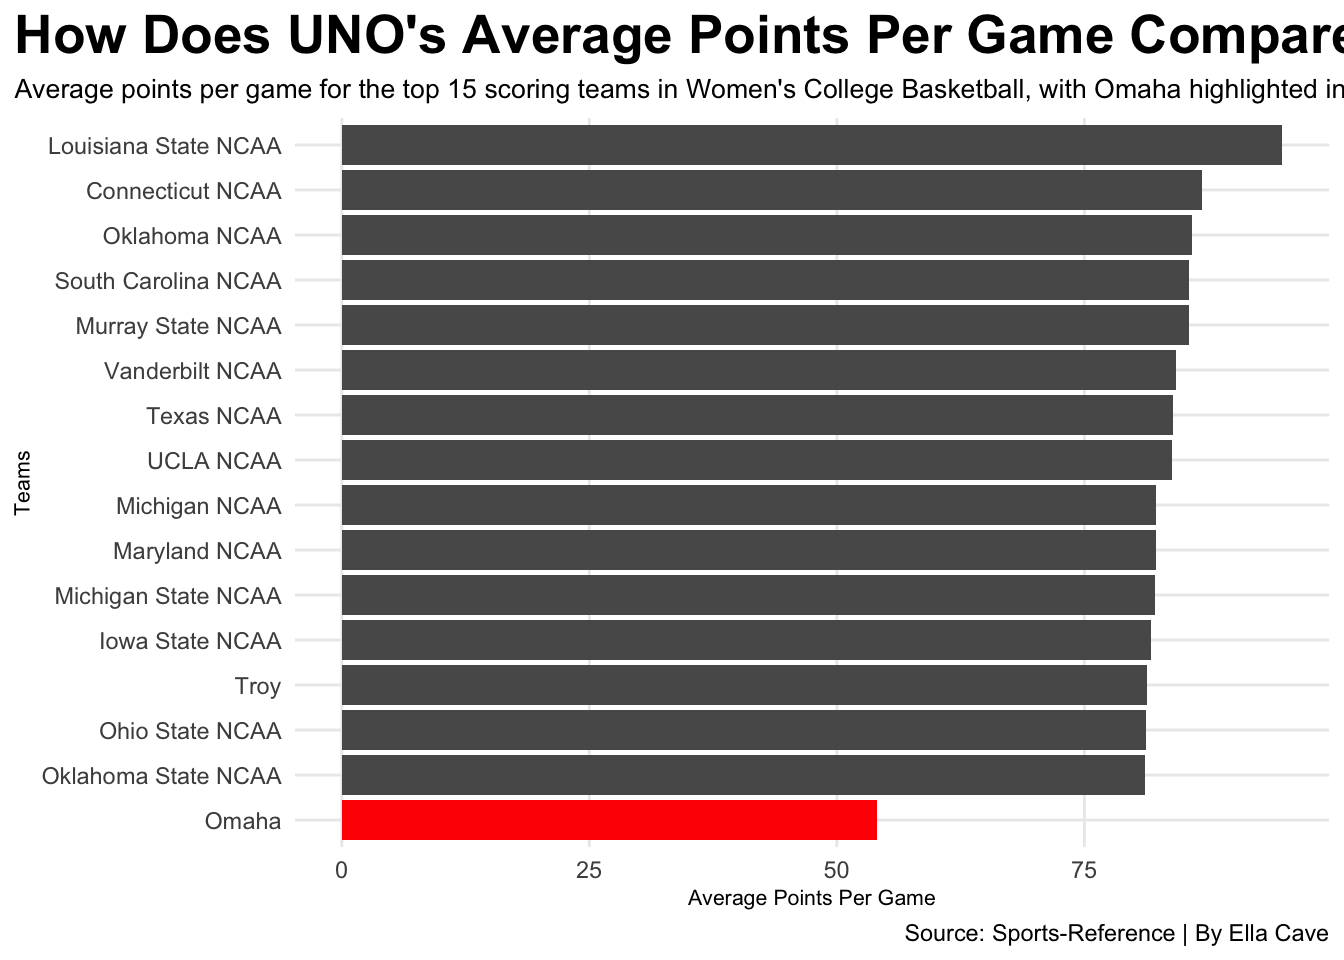
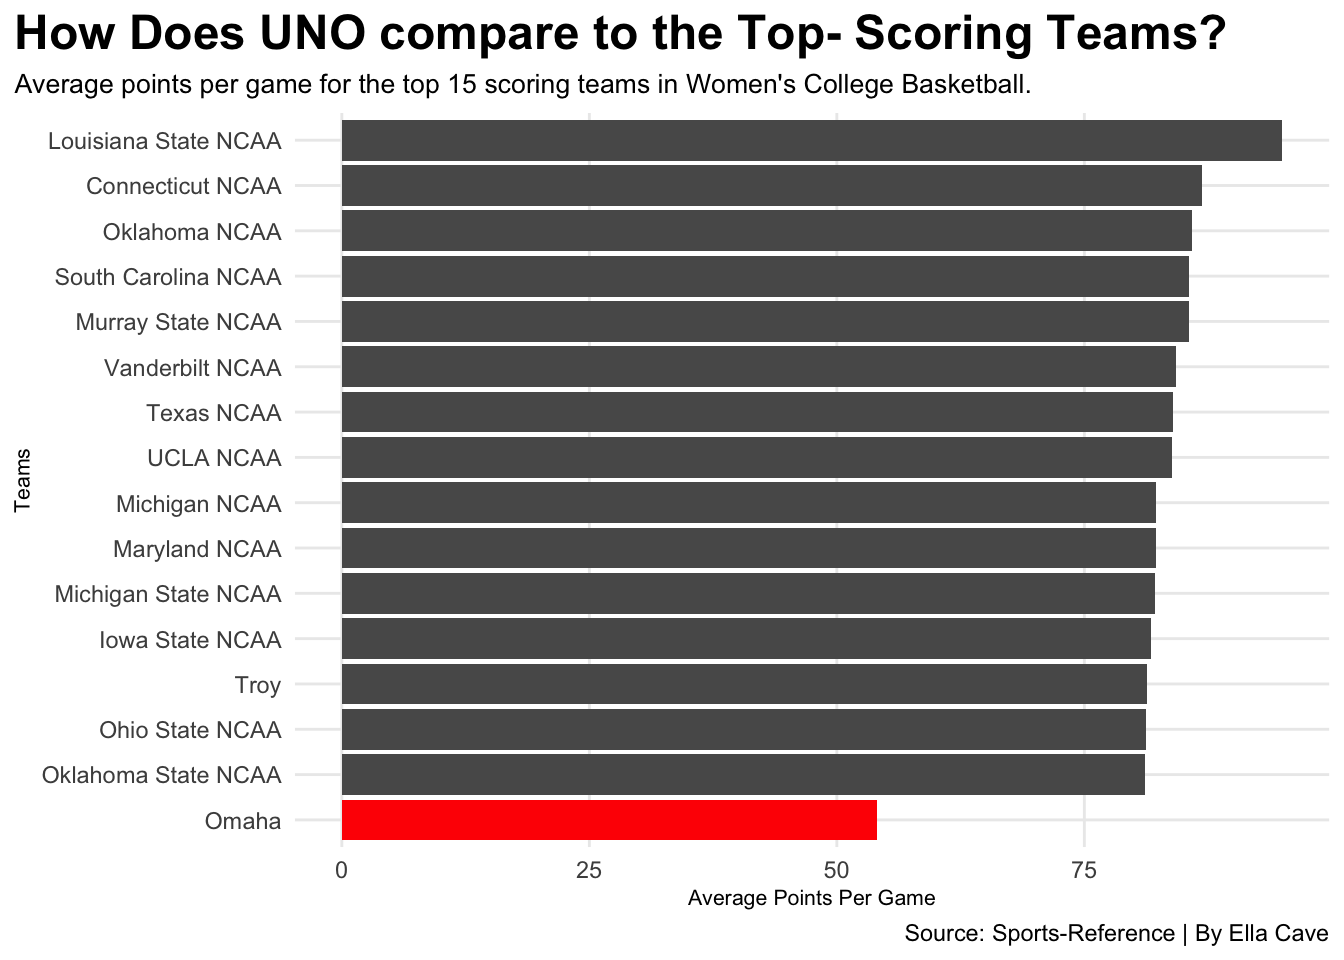
final edits

diff --git a/posts/omaha-womens-basketball/index.html b/posts/omaha-womens-basketball/index.html
@@ -402,12 +402,12 @@ pre > code.sourceCode > span > a:first-child::before { text-decoration: underlin
 <span id="cb1-27"><a href="#cb1-27" aria-hidden="true" tabindex="-1"></a>  <span class="fu">labs</span>(</span>
 <span id="cb1-28"><a href="#cb1-28" aria-hidden="true" tabindex="-1"></a>    <span class="at">x=</span><span class="st">"Teams"</span>, </span>
 <span id="cb1-29"><a href="#cb1-29" aria-hidden="true" tabindex="-1"></a>    <span class="at">y=</span><span class="st">"Average Points Per Game"</span>, </span>
-<span id="cb1-30"><a href="#cb1-30" aria-hidden="true" tabindex="-1"></a>    <span class="at">title=</span><span class="st">"How Does UNO's Average Points Per Game Compare to the Highest-Scoring Teams?"</span>, </span>
-<span id="cb1-31"><a href="#cb1-31" aria-hidden="true" tabindex="-1"></a>    <span class="at">subtitle=</span><span class="st">"Average points per game for the top 15 scoring teams in Women's College Basketball, with Omaha highlighted in red."</span>, </span>
+<span id="cb1-30"><a href="#cb1-30" aria-hidden="true" tabindex="-1"></a>    <span class="at">title=</span><span class="st">"How Does UNO compare to the Top- Scoring Teams?"</span>, </span>
+<span id="cb1-31"><a href="#cb1-31" aria-hidden="true" tabindex="-1"></a>    <span class="at">subtitle=</span><span class="st">"Average points per game for the top 15 scoring teams in Women's College Basketball."</span>, </span>
 <span id="cb1-32"><a href="#cb1-32" aria-hidden="true" tabindex="-1"></a>    <span class="at">caption=</span><span class="st">"Source: Sports-Reference | By Ella Cave"</span></span>
 <span id="cb1-33"><a href="#cb1-33" aria-hidden="true" tabindex="-1"></a>    ) <span class="sc">+</span></span>
 <span id="cb1-34"><a href="#cb1-34" aria-hidden="true" tabindex="-1"></a> <span class="fu">theme</span>(</span>
-<span id="cb1-35"><a href="#cb1-35" aria-hidden="true" tabindex="-1"></a>     <span class="at">plot.title =</span> <span class="fu">element_text</span>(<span class="at">size =</span> <span class="dv">20</span>, <span class="at">face =</span> <span class="st">"bold"</span>), </span>
+<span id="cb1-35"><a href="#cb1-35" aria-hidden="true" tabindex="-1"></a>     <span class="at">plot.title =</span> <span class="fu">element_text</span>(<span class="at">size =</span> <span class="dv">18</span>, <span class="at">face =</span> <span class="st">"bold"</span>), </span>
 <span id="cb1-36"><a href="#cb1-36" aria-hidden="true" tabindex="-1"></a>     <span class="at">axis.title =</span> <span class="fu">element_text</span>(<span class="at">size =</span> <span class="dv">8</span>),</span>
 <span id="cb1-37"><a href="#cb1-37" aria-hidden="true" tabindex="-1"></a>     <span class="at">plot.subtitle =</span> <span class="fu">element_text</span>(<span class="at">size =</span> <span class="dv">10</span>),</span>
 <span id="cb1-38"><a href="#cb1-38" aria-hidden="true" tabindex="-1"></a>     <span class="at">panel.grid.minor =</span> <span class="fu">element_blank</span>(), </span>
@@ -448,12 +448,12 @@ pre > code.sourceCode > span > a:first-child::before { text-decoration: underlin
 <span id="cb2-17"><a href="#cb2-17" aria-hidden="true" tabindex="-1"></a>    <span class="at">x=</span><span class="st">"Average Scored Points"</span>, </span>
 <span id="cb2-18"><a href="#cb2-18" aria-hidden="true" tabindex="-1"></a>    <span class="at">y=</span><span class="st">"Average Allowed Points"</span>, </span>
 <span id="cb2-19"><a href="#cb2-19" aria-hidden="true" tabindex="-1"></a>    <span class="at">title=</span><span class="st">"Does a Strong Offense Mean a Strong Defense?"</span>, </span>
-<span id="cb2-20"><a href="#cb2-20" aria-hidden="true" tabindex="-1"></a>    <span class="at">subtitle=</span><span class="st">"Comparing average points scored and points allowed per game among the top 15 scoring teams in women's college basketball, with UNO highlighted in red."</span>, </span>
+<span id="cb2-20"><a href="#cb2-20" aria-hidden="true" tabindex="-1"></a>    <span class="at">subtitle=</span><span class="st">"Comparing average points scored and points allowed with teams Women's College Basketball."</span>, </span>
 <span id="cb2-21"><a href="#cb2-21" aria-hidden="true" tabindex="-1"></a>    <span class="at">caption=</span><span class="st">"Source: Sports-Reference | By Ella Cave"</span></span>
 <span id="cb2-22"><a href="#cb2-22" aria-hidden="true" tabindex="-1"></a>    ) <span class="sc">+</span></span>
 <span id="cb2-23"><a href="#cb2-23" aria-hidden="true" tabindex="-1"></a>  <span class="fu">theme_minimal</span>() <span class="sc">+</span></span>
 <span id="cb2-24"><a href="#cb2-24" aria-hidden="true" tabindex="-1"></a>   <span class="fu">theme</span>(</span>
-<span id="cb2-25"><a href="#cb2-25" aria-hidden="true" tabindex="-1"></a>     <span class="at">plot.title =</span> <span class="fu">element_text</span>(<span class="at">size =</span> <span class="dv">20</span>, <span class="at">face =</span> <span class="st">"bold"</span>), </span>
+<span id="cb2-25"><a href="#cb2-25" aria-hidden="true" tabindex="-1"></a>     <span class="at">plot.title =</span> <span class="fu">element_text</span>(<span class="at">size =</span> <span class="dv">18</span>, <span class="at">face =</span> <span class="st">"bold"</span>), </span>
 <span id="cb2-26"><a href="#cb2-26" aria-hidden="true" tabindex="-1"></a>     <span class="at">axis.title =</span> <span class="fu">element_text</span>(<span class="at">size =</span> <span class="dv">8</span>),</span>
 <span id="cb2-27"><a href="#cb2-27" aria-hidden="true" tabindex="-1"></a>     <span class="at">plot.subtitle =</span> <span class="fu">element_text</span>(<span class="at">size =</span> <span class="dv">10</span>),</span>
 <span id="cb2-28"><a href="#cb2-28" aria-hidden="true" tabindex="-1"></a>     <span class="at">panel.grid.minor =</span> <span class="fu">element_blank</span>(), </span>
@@ -509,12 +509,12 @@ pre > code.sourceCode > span > a:first-child::before { text-decoration: underlin
 <span id="cb3-32"><a href="#cb3-32" aria-hidden="true" tabindex="-1"></a>    <span class="at">x=</span><span class="st">"Average Turnovers Per Game"</span>,</span>
 <span id="cb3-33"><a href="#cb3-33" aria-hidden="true" tabindex="-1"></a>    <span class="at">y=</span><span class="st">"Average Points Scored Per Game"</span>,</span>
 <span id="cb3-34"><a href="#cb3-34" aria-hidden="true" tabindex="-1"></a>    <span class="at">title=</span><span class="st">"Does Taking Care of the Basketball Help Teams Win?"</span>,</span>
-<span id="cb3-35"><a href="#cb3-35" aria-hidden="true" tabindex="-1"></a>    <span class="at">subtitle=</span><span class="st">"Comparing average turnovers and points scored among women's college basketball teams, with Omaha highlighted in red."</span>,</span>
+<span id="cb3-35"><a href="#cb3-35" aria-hidden="true" tabindex="-1"></a>    <span class="at">subtitle=</span><span class="st">"Comparing average turnovers and points scored among women's college basketball teams."</span>,</span>
 <span id="cb3-36"><a href="#cb3-36" aria-hidden="true" tabindex="-1"></a>    <span class="at">caption=</span><span class="st">"Source: wehoop | By Ella Cave"</span></span>
 <span id="cb3-37"><a href="#cb3-37" aria-hidden="true" tabindex="-1"></a>  ) <span class="sc">+</span></span>
 <span id="cb3-38"><a href="#cb3-38" aria-hidden="true" tabindex="-1"></a>  <span class="fu">theme_minimal</span>() <span class="sc">+</span></span>
 <span id="cb3-39"><a href="#cb3-39" aria-hidden="true" tabindex="-1"></a> <span class="fu">theme</span>(</span>
-<span id="cb3-40"><a href="#cb3-40" aria-hidden="true" tabindex="-1"></a>     <span class="at">plot.title =</span> <span class="fu">element_text</span>(<span class="at">size =</span> <span class="dv">20</span>, <span class="at">face =</span> <span class="st">"bold"</span>), </span>
+<span id="cb3-40"><a href="#cb3-40" aria-hidden="true" tabindex="-1"></a>     <span class="at">plot.title =</span> <span class="fu">element_text</span>(<span class="at">size =</span> <span class="dv">18</span>, <span class="at">face =</span> <span class="st">"bold"</span>), </span>
 <span id="cb3-41"><a href="#cb3-41" aria-hidden="true" tabindex="-1"></a>     <span class="at">axis.title =</span> <span class="fu">element_text</span>(<span class="at">size =</span> <span class="dv">8</span>),</span>
 <span id="cb3-42"><a href="#cb3-42" aria-hidden="true" tabindex="-1"></a>     <span class="at">plot.subtitle =</span> <span class="fu">element_text</span>(<span class="at">size =</span> <span class="dv">10</span>),</span>
 <span id="cb3-43"><a href="#cb3-43" aria-hidden="true" tabindex="-1"></a>     <span class="at">panel.grid.minor =</span> <span class="fu">element_blank</span>(), </span>

diff --git a/index.html b/index.html
@@ -379,7 +379,7 @@ window.Quarto = {
 
 <div class="quarto-listing quarto-listing-container-default" id="listing-listing">
 <div class="list quarto-listing-default">
-<div class="quarto-post image-right" data-index="0" data-listing-date-sort="1668319200000" data-listing-file-modified-sort="1794601453007" data-listing-date-modified-sort="NaN" data-listing-reading-time-sort="6" data-listing-word-count-sort="1138">
+<div class="quarto-post image-right" data-index="0" data-listing-date-sort="1668319200000" data-listing-file-modified-sort="1794602215441" data-listing-date-modified-sort="NaN" data-listing-reading-time-sort="6" data-listing-word-count-sort="1113">
 <div class="thumbnail"><a href="./posts/omaha-womens-basketball/index.html" class="no-external-icon">
 
 <img loading="lazy" src="./posts/omaha-womens-basketball/image.png" class="thumbnail-image">
